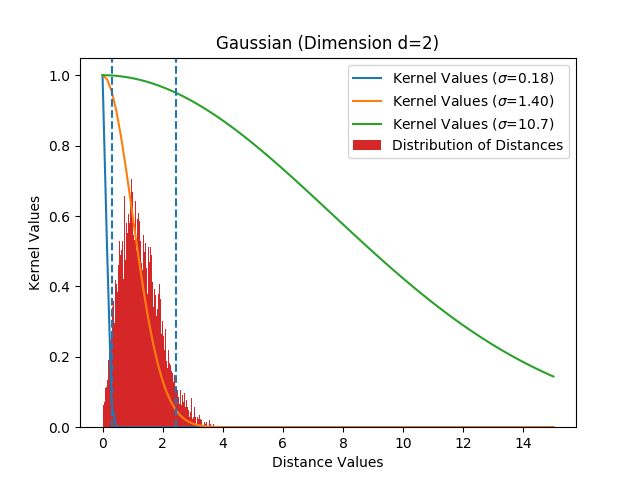
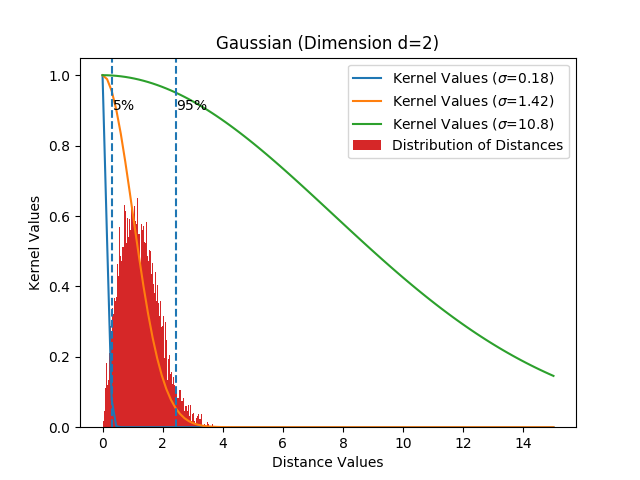
added distance concentration graphs

diff --git a/Presentation 1/Code/c10_concentration_of_distances.py b/Presentation 1/Code/c10_concentration_of_distances.py
@@ -1,0 +1,50 @@
+import numpy as np
+import numpy as np
+import matplotlib.pyplot as plt
+from math import pi,e
+from kernel_implementations import * 
+
+dimensions = [ 2, 50, 100 ]
+N = 10000
+
+df1 = lambda x : get_distances(x,order=2.0) 
+
+
+for dim in dimensions:
+	sigma_data=1.0
+	actual_data = np.random.multivariate_normal( mean=np.zeros(dim), cov=sigma_data**2 * np.eye(dim), size = N ) 
+	actual_distances = df1(actual_data) 
+
+	#estimating hyperparameter sigma using thumb rule in paper 
+	d_5, d_50, d_95 = np.percentile(actual_distances,5),np.percentile(actual_distances,50),np.percentile(actual_distances,95)
+	# sigma = d_50/((-np.log(0.5))**0.5)
+	# sigma1 = d_5/((-np.log(0.05))**0.5)
+	# sigma2 = d_95/((-np.log(0.95))**0.5)
+
+
+	# dist_vals = np.linspace( 0, np.max( (np.max(actual_distances)+5, 15) ) , 100)
+	# kernel_vals = gaussian_kernel(dist_vals,sigma) 
+	# kernel_vals1 = gaussian_kernel(dist_vals,sigma1) 
+	# kernel_vals2 = gaussian_kernel(dist_vals,sigma2) 
+
+
+	fig,ax=plt.subplots()
+	# ax.plot(dist_vals,kernel_vals1,label="Kernel Values ($\sigma$="+str(sigma1)[:4]+")") 
+	# ax.plot(dist_vals,kernel_vals,label="Kernel Values ($\sigma$="+str(sigma)[:4]+")") 
+	# ax.plot(dist_vals,kernel_vals2,label="Kernel Values ($\sigma$="+str(sigma2)[:4]+")") 
+	ax.hist(actual_distances,bins=200,density=True,label="Distribution of Distances") 
+	ax.axvline(d_5,ls='--',color='r')
+	ax.text(d_5,0.7,'$5 \\%$')
+	ax.axvline(d_95,ls='--',color='r')
+	ax.text(d_95,0.7,'$95 \\%$')
+	ax.set_title("Concentration of Distances (Dimension D="+str(dim)+")")
+	ax.set_xlabel('Distance Values')
+	ax.set_ylabel('Probability')
+	ax.set_ylim(0.0,1.0)
+	ax.set_xlim(0.0,15.0)
+	ax.legend() 
+	fig.savefig('../Graphs/g10_concentration_of_dist_dim='+str(dim)+'.png')
+
+# plt.show()
+
+

diff --git a/Presentation 1/Code/c3_problem_with_gaussian_kernel.py b/Presentation 1/Code/c3_problem_with_gaussian_kernel.py
@@ -34,7 +34,9 @@ for dim in dimensions:
 	ax.plot(dist_vals,kernel_vals2,label="Kernel Values ($\sigma$="+str(sigma2)[:4]+")") 
 	ax.hist(actual_distances,bins=200,density=True,label="Distribution of Distances") 
 	ax.axvline(d_5,ls='--')
-	ax.axvline(d_95,ls='--')
+	ax.text(d_5,0.9,'$5 \\%$')
+	ax.axvline(d_95,ls='--',)
+	ax.text(d_95,0.9,'$95 \\%$')
 	ax.set_title("Gaussian (Dimension d="+str(dim)+")")
 	ax.set_xlabel('Distance Values')
 	ax.set_ylabel('Kernel Values')
